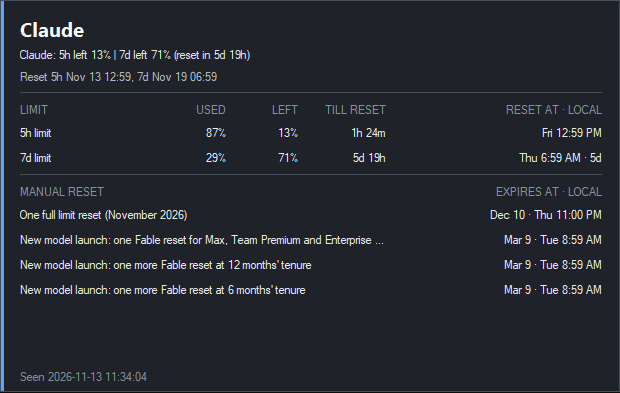
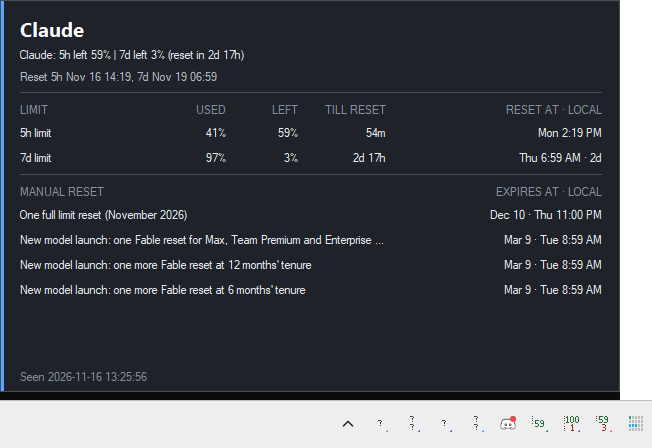
Claude card with tray strip screenshot (1:1, no system tooltip)

diff --git a/README.md b/README.md
@@ -2,9 +2,9 @@
 
 ![limits Claude card](docs/counters.png)
 
-*Claude usage card (1:1): quota windows on top, banked limit resets in a
-separate table with title and expiry. The native tray tooltip is disabled —
-hovering an icon shows only this card.*
+*Claude usage card (1:1) above the tray with all icons: quota windows on top,
+banked limit resets in a separate table with title and expiry. The native tray
+tooltip is disabled — hovering an icon shows only this card.*
 
 Windows background monitor for Codex, Claude, Kimi, DeepSeek, Devin, OpenCode,
 OpenRouter, and hardware health. The CPU/GPU load-bars icon is always present in
